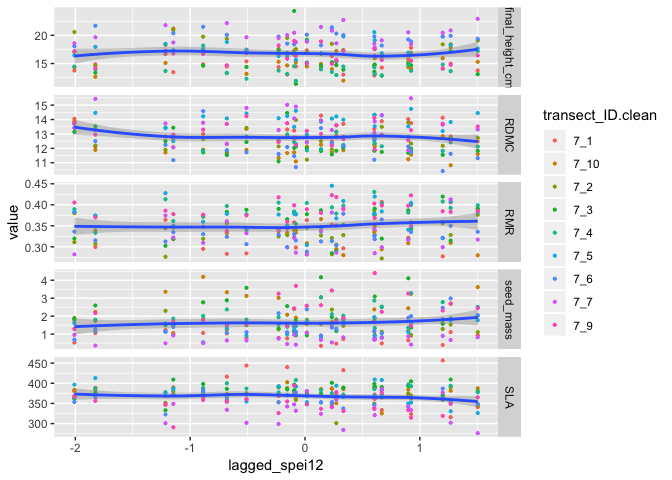
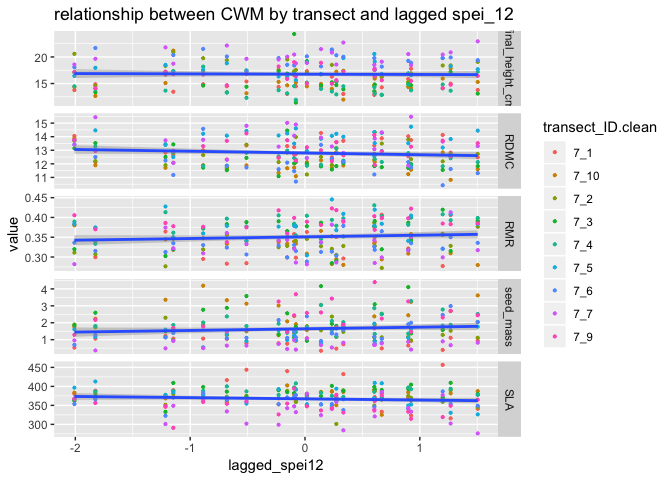
updated knitted document

Changed region(s): [[0.0, 0.0, 0.7812, 0.9062], [0.8125, 0.2188, 1.0, 0.7188], [0.75, 0.8125, 0.7812, 0.875]]

diff --git a/modeling/CWM___CWV_models_.md b/modeling/CWM___CWV_models_.md
@@ -49,6 +49,14 @@ add to DF
 ``` r
 tranCWM_figures$lagged_spei12 <- CWV$spei_lag
 CWV$lagged_spei12 <- CWV$spei_lag
+#error
+#tranCWM_regressions$lagged_spei12 <-CWV$spei_lag
+```
+
+create long form CWV DF for creating figures
+
+``` r
+CWV_figures <- CWV %>% gather("trait_name", value, 2:6)
 ```
 
 =====create CWV figures (current and lagged)======
@@ -59,11 +67,33 @@ fig 2: variation in trait values (CWV) in relation to lagged spei\_12 (pooled da
 
 ``` r
 #plot fig 1: panel plot of CWV of traits and current spei_12
+current_CWV_spei_panel<- ggplot(subset(CWV_figures, trait_name%in% c("height", "RMR", "SLA", "RDMC", "seedmass")), 
+mapping = aes(x=spei_12, y=value))+
+  geom_point(size = 0.75)+
+  geom_smooth(method=lm)+
+  facet_grid(trait_name~., scales = "free_y")
+
+current_CWV_spei_panel
 ```
 
+![](CWM___CWV_models__files/figure-markdown_github/unnamed-chunk-7-1.png)
+
 ``` r
-#need to re organize or create CWV for figures DF to put traits in same column 
+#plot fig 2: panel plot of CWV of traits and lagged spei_12
+lag_CWV_spei_panel <- ggplot(subset(CWV_figures, trait_name%in% c("height", "RMR", "SLA", "RDMC", "seedmass")),
+   mapping = aes(x=spei_lag, y=value))+
+  geom_point(size = 0.75)+
+  geom_smooth(method=lm)+
+  facet_grid(trait_name~., scales = "free_y")
+  
+lag_CWV_spei_panel            
 ```
+
+    ## Warning: Removed 5 rows containing non-finite values (stat_smooth).
+
+    ## Warning: Removed 5 rows containing missing values (geom_point).
+
+![](CWM___CWV_models__files/figure-markdown_github/unnamed-chunk-7-2.png)
 
 ====exploratory CWV figures======
 
@@ -386,35 +416,6 @@ current_tranCWM_spei_panel
 
 ![](CWM___CWV_models__files/figure-markdown_github/unnamed-chunk-11-1.png)
 
-run linear regression with multiple trait variables (current)
-
-pvalue .57 r^2 -.003
-
-``` r
-current_tranCWM_spei_LM <- lm(formula = SLA + final_height_cm + seed_mass + RDMC + RMR ~ spei_12, data=tranCWM_regressions)
-summary(current_tranCWM_spei_LM)
-```
-
-    ## 
-    ## Call:
-    ## lm(formula = SLA + final_height_cm + seed_mass + RDMC + RMR ~ 
-    ##     spei_12, data = tranCWM_regressions)
-    ## 
-    ## Residuals:
-    ##     Min      1Q  Median      3Q     Max 
-    ## -86.659 -14.169   3.514  17.031  87.590 
-    ## 
-    ## Coefficients:
-    ##             Estimate Std. Error t value Pr(>|t|)    
-    ## (Intercept)  398.755      1.844 216.289   <2e-16 ***
-    ## spei_12       -1.141      2.034  -0.561    0.576    
-    ## ---
-    ## Signif. codes:  0 '***' 0.001 '**' 0.01 '*' 0.05 '.' 0.1 ' ' 1
-    ## 
-    ## Residual standard error: 27.34 on 218 degrees of freedom
-    ## Multiple R-squared:  0.00144,    Adjusted R-squared:  -0.00314 
-    ## F-statistic: 0.3144 on 1 and 218 DF,  p-value: 0.5756
-
 plot fig 4: panel plot of CWM traits at transect level with lagged spei\_12 on x
 
 ``` r
@@ -422,7 +423,8 @@ lagged_tranCWM_spei_panel <- ggplot(subset(tranCWM_figures, trait_name%in% c("fi
                                     mapping = aes(x=lagged_spei12, y=value))+
   geom_point(aes(col = transect_ID.clean), size = 0.75)+
   geom_smooth(method=lm)+
-  facet_grid(trait_name~., scales = "free_y")
+  facet_grid(trait_name~., scales = "free_y")+
+  ggtitle("relationship between CWM by transect and lagged spei_12")
 
 lagged_tranCWM_spei_panel
 ```
@@ -431,15 +433,143 @@ lagged_tranCWM_spei_panel
 
     ## Warning: Removed 45 rows containing missing values (geom_point).
 
-![](CWM___CWV_models__files/figure-markdown_github/unnamed-chunk-13-1.png)
+![](CWM___CWV_models__files/figure-markdown_github/unnamed-chunk-12-1.png)
 
-run linear regression with multiple trait variables (lagged)
-
-``` r
-#need to add lagged spei_12 to the tranCWM regressions DF 
-```
+====run linear regressions for CWM traits and spei\_12 (current)=====
 
 ``` r
-#lagged_tranCWM_spei_LM <- lm(formula = SLA + final_height_cm + seed_mass + RDMC + RMR ~ lagged_spei12, data=tranCWM_regressions)
-#summary(lagged_tranCWM_spei_LM)
+#LM for CWM RMR and spei
+#p value .5 r^2 -.002
+#not significant
+current_tranCWM_RMR_spei_LM <- lm(formula = RMR ~ spei_12, data = tranCWM_regressions)
+summary(current_tranCWM_RMR_spei_LM)
 ```
+
+    ## 
+    ## Call:
+    ## lm(formula = RMR ~ spei_12, data = tranCWM_regressions)
+    ## 
+    ## Residuals:
+    ##       Min        1Q    Median        3Q       Max 
+    ## -0.080372 -0.029417 -0.002573  0.030491  0.094366 
+    ## 
+    ## Coefficients:
+    ##              Estimate Std. Error t value Pr(>|t|)    
+    ## (Intercept)  0.350981   0.002660 131.930   <2e-16 ***
+    ## spei_12     -0.001931   0.002935  -0.658    0.511    
+    ## ---
+    ## Signif. codes:  0 '***' 0.001 '**' 0.01 '*' 0.05 '.' 0.1 ' ' 1
+    ## 
+    ## Residual standard error: 0.03946 on 218 degrees of freedom
+    ## Multiple R-squared:  0.001982,   Adjusted R-squared:  -0.002596 
+    ## F-statistic: 0.433 on 1 and 218 DF,  p-value: 0.5112
+
+``` r
+#LM for CWM height and spei_12
+#p value .037 r^2 .015
+#significant!
+current_tranCWM_height_spei_LM <- lm(formula = final_height_cm ~ spei_12, data = tranCWM_regressions)
+summary(current_tranCWM_height_spei_LM)
+```
+
+    ## 
+    ## Call:
+    ## lm(formula = final_height_cm ~ spei_12, data = tranCWM_regressions)
+    ## 
+    ## Residuals:
+    ##     Min      1Q  Median      3Q     Max 
+    ## -5.1707 -2.0835  0.0413  1.9340  6.9291 
+    ## 
+    ## Coefficients:
+    ##             Estimate Std. Error t value Pr(>|t|)    
+    ## (Intercept)  16.7952     0.1711  98.176   <2e-16 ***
+    ## spei_12       0.3944     0.1887   2.089   0.0378 *  
+    ## ---
+    ## Signif. codes:  0 '***' 0.001 '**' 0.01 '*' 0.05 '.' 0.1 ' ' 1
+    ## 
+    ## Residual standard error: 2.537 on 218 degrees of freedom
+    ## Multiple R-squared:  0.01963,    Adjusted R-squared:  0.01514 
+    ## F-statistic: 4.366 on 1 and 218 DF,  p-value: 0.03783
+
+``` r
+#LM for CWM RDMC and spei_12
+#p vaule .35 r^2 -.0006
+#not significant
+current_tranCWM_RDMC_spei_LM <- lm(formula = RDMC ~ spei_12, data = tranCWM_regressions)
+summary(current_tranCWM_RDMC_spei_LM)
+```
+
+    ## 
+    ## Call:
+    ## lm(formula = RDMC ~ spei_12, data = tranCWM_regressions)
+    ## 
+    ## Residuals:
+    ##     Min      1Q  Median      3Q     Max 
+    ## -2.3979 -0.7465 -0.1114  0.7243  2.7754 
+    ## 
+    ## Coefficients:
+    ##             Estimate Std. Error t value Pr(>|t|)    
+    ## (Intercept) 12.77403    0.06590 193.842   <2e-16 ***
+    ## spei_12      0.06775    0.07271   0.932    0.352    
+    ## ---
+    ## Signif. codes:  0 '***' 0.001 '**' 0.01 '*' 0.05 '.' 0.1 ' ' 1
+    ## 
+    ## Residual standard error: 0.9774 on 218 degrees of freedom
+    ## Multiple R-squared:  0.003967,   Adjusted R-squared:  -0.0006018 
+    ## F-statistic: 0.8683 on 1 and 218 DF,  p-value: 0.3525
+
+``` r
+#LM for CWM seedmass and spei_12
+#p value .66 r^2 -.003
+#not significant
+current_tranCWM_seedmass_spei_LM <-lm(formula = seed_mass ~ spei_12, data = tranCWM_regressions)
+summary(current_tranCWM_seedmass_spei_LM)
+```
+
+    ## 
+    ## Call:
+    ## lm(formula = seed_mass ~ spei_12, data = tranCWM_regressions)
+    ## 
+    ## Residuals:
+    ##     Min      1Q  Median      3Q     Max 
+    ## -1.3340 -0.6081 -0.1140  0.3876  2.7477 
+    ## 
+    ## Coefficients:
+    ##             Estimate Std. Error t value Pr(>|t|)    
+    ## (Intercept)  1.64226    0.05577  29.447   <2e-16 ***
+    ## spei_12      0.02681    0.06153   0.436    0.664    
+    ## ---
+    ## Signif. codes:  0 '***' 0.001 '**' 0.01 '*' 0.05 '.' 0.1 ' ' 1
+    ## 
+    ## Residual standard error: 0.8272 on 218 degrees of freedom
+    ## Multiple R-squared:  0.0008699,  Adjusted R-squared:  -0.003713 
+    ## F-statistic: 0.1898 on 1 and 218 DF,  p-value: 0.6635
+
+``` r
+#LM for CWM Sla and spei_12
+# pvalue .43 r^2 -.0017
+#not significant
+current_tranCWM_SLA_spei_LM <- lm(formula = SLA ~spei_12, data = tranCWM_regressions)
+summary(current_tranCWM_SLA_spei_LM)
+```
+
+    ## 
+    ## Call:
+    ## lm(formula = SLA ~ spei_12, data = tranCWM_regressions)
+    ## 
+    ## Residuals:
+    ##     Min      1Q  Median      3Q     Max 
+    ## -90.004 -16.263   3.094  17.899  91.949 
+    ## 
+    ## Coefficients:
+    ##             Estimate Std. Error t value Pr(>|t|)    
+    ## (Intercept)  367.193      1.874 195.897   <2e-16 ***
+    ## spei_12       -1.628      2.068  -0.787    0.432    
+    ## ---
+    ## Signif. codes:  0 '***' 0.001 '**' 0.01 '*' 0.05 '.' 0.1 ' ' 1
+    ## 
+    ## Residual standard error: 27.8 on 218 degrees of freedom
+    ## Multiple R-squared:  0.002833,   Adjusted R-squared:  -0.001741 
+    ## F-statistic: 0.6194 on 1 and 218 DF,  p-value: 0.4321
+
+====run linear regressions for CWM traits and spei\_12 (lagged)=====
